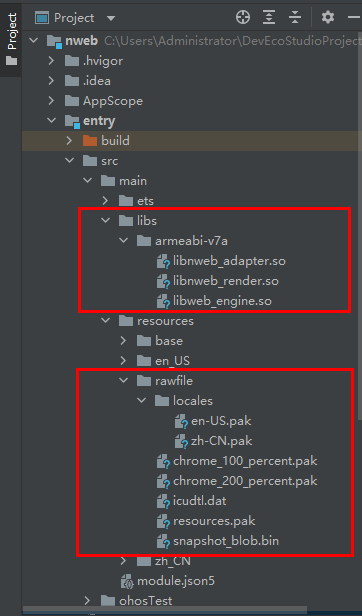
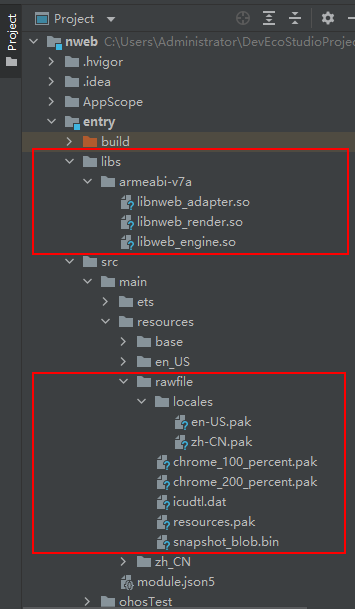
fix readme packeg hap err

Changed region(s): [[0.062, 0.0, 1.0, 1.0], [0.0, 0.0, 0.062, 0.1248]]

diff --git a/README_ZH.md b/README_ZH.md
@@ -34,7 +34,11 @@
 
 * 2.新建OpenHarmony空白工程
    ![](figures/新建工程.png "新建工程")
-* 3.复制编译生成的文件（src/out/rk3568或src/out/rk3568_64目录下）至工程对应位置
+* 3.复制编译生成的文件（src/out/rk3568或src/out/rk3568_64目录下）至工程对应位置  
+    32位镜像，so放置于/entry/libs/armeabi-v7a/  
+    64位镜像，so放置于/entry/libs/arm64-v8a/  
+    其他资源文件放置于/entry/src/main/resources/rawfile/  
+    如图所示为32位镜像对应放置位置：  
    ![](figures/存放路径.png "存放路径") 
 
 * 4.删除entry/src/main/ets/pages/Index.ets文件
